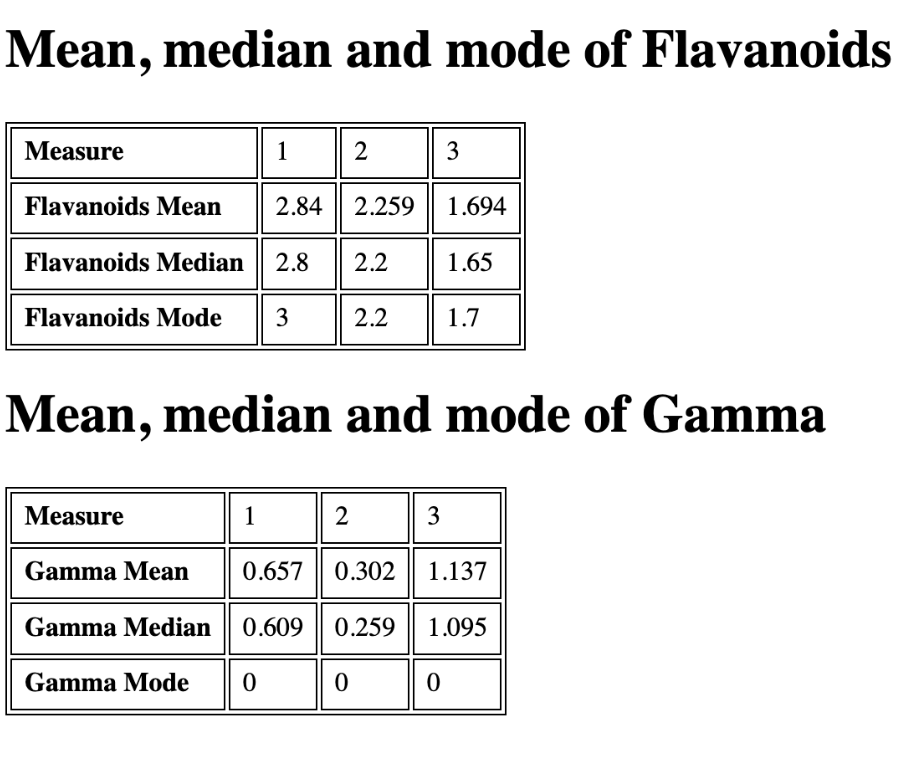
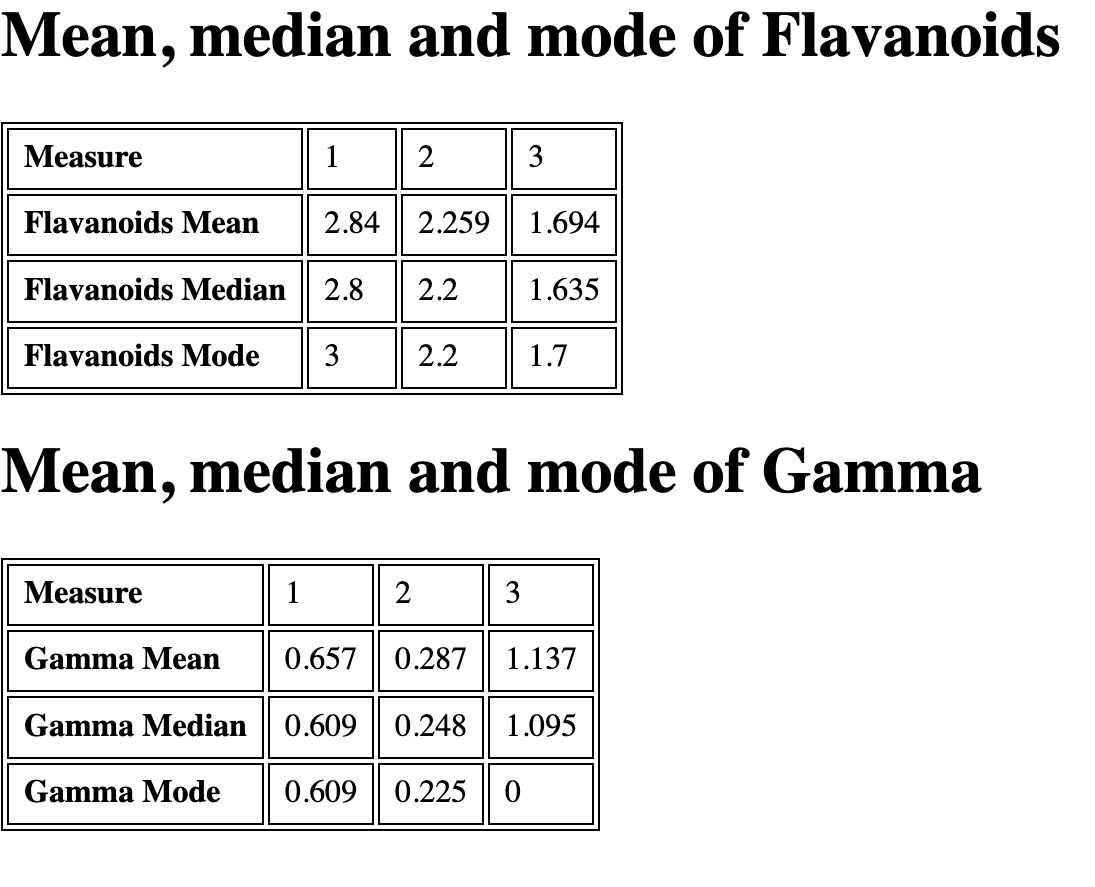
updated code

Changed region(s): [[0.0, 0.1211, 0.9231, 0.575], [0.0, 0.6053, 0.5538, 0.9684], [0.0, 0.0, 0.9846, 0.0908]]

diff --git a/src/utils/calculateMedianFromWine.ts b/src/utils/calculateMedianFromWine.ts
@@ -1,6 +1,7 @@
 import Wine from "../types/Wine";
 import checkApiStatus from "./checkAPIStatus";
 import mergeSort from "./mergeSort";
+
 /**
  * This function calculates the median of a wine's category, given the alcohol class and the wine data.
  *
@@ -8,6 +9,7 @@ import mergeSort from "./mergeSort";
  * @param category The name of the category to calculate the median of.
  * @param alcoholClass The alcohol class of the wines to consider.
  * @param isFetching A boolean flag that indicates whether the wine data is still being fetched from the API.
+ * @returns The calculated median.
  */
 export default function calculateMedianFromWine(
   wineData: Wine[] | undefined,
@@ -20,14 +22,27 @@ export default function calculateMedianFromWine(
    */
   if (checkApiStatus(wineData, isFetching) && Array.isArray(wineData)) {
     /**
-     * Filter the wine data to only include wines with the specified alcohol class and whose category is not a string.
+     * Filter the wine data to only include wines with the specified alcohol class.
      */
     const result = wineData
-      .filter(
-        (wine: Wine) =>
-          wine.Alcohol === alcoholClass && typeof wine[category] !== "string"
-      )
-      .map((wine: Wine) => wine[category] as number);
+      .filter((wine: any) => wine.Alcohol === alcoholClass)
+      .map((wine: any) => {
+        const categoryValue = wine[category];
+        if (category === "Flavanoids") {
+          if (categoryValue === "string")
+            return parseFloat(parseFloat(categoryValue).toFixed(3));
+          else return categoryValue;
+        } else {
+          return categoryValue;
+        }
+      });
+
+    /**
+     * Check if there's enough data to calculate the median.
+     */
+    if (result.length === 0) {
+      return undefined; // Return undefined if no data is available.
+    }
 
     /**
      * Sort the wine data in ascending order.
@@ -49,4 +64,6 @@ export default function calculateMedianFromWine(
 
     return parseFloat(median.toFixed(3));
   }
+
+  return undefined; // Return undefined if conditions are not met.
 }

diff --git a/src/utils/calculateGamma.ts b/src/utils/calculateGamma.ts
@@ -4,28 +4,18 @@
  * @param Ash The ash level of the wine.
  * @param Hue The hue level of the wine.
  * @param Magnesium The magnesium level of the wine.
+ * @returns The calculated gamma value or an empty string for invalid input.
  */
 export default function calculateGamma(
-  Ash: number,
-  Hue: number,
-  Magnesium: number
+  Ash: number | string,
+  Hue: number | string,
+  Magnesium: number | string
 ) {
-  /**
-   * Check if the input values are not strings.
-   */
-  if (
-    typeof Ash !== "string" &&
-    typeof Hue !== "string" &&
-    typeof Magnesium !== "string"
-  ) {
-    /**
-     * Calculate the gamma by multiplying the ash and hue levels and dividing by the magnesium level.
-     */
-    const res = parseFloat(((Ash * Hue) / Magnesium).toFixed(3));
-    return res;
-  } else return "";
+  let floatAsh = typeof Ash === "string" ? parseFloat(Ash) : Ash;
+  let floatHue = typeof Hue === "string" ? parseFloat(Hue) : Hue;
+  let floatMagnesium =
+    typeof Magnesium === "string" ? parseFloat(Magnesium) : Magnesium;
 
-  /**
-   * If any of the input values are strings, return an empty string.
-   */
+  const res = ((floatAsh * floatHue) / floatMagnesium).toFixed(3);
+  return parseFloat(res); // Convert the result back to a number.
 }

diff --git a/src/utils/calculateMeanFromWine.ts b/src/utils/calculateMeanFromWine.ts
@@ -29,6 +29,8 @@ export default function calculateMeanFromWine(
       )
       .map((wine: Wine) => wine[category] as number);
 
+    // console.log(category, alcoholClass, result);
+
     /**
      * Calculate the mean by adding all the numbers in the array and dividing by the number of numbers.
      */

diff --git a/src/types/Wine.ts b/src/types/Wine.ts
@@ -24,7 +24,7 @@ export default interface Wine {
   "Alcalinity of ash": number;
   Magnesium: number;
   "Total phenols": number;
-  Flavanoids: number;
+  Flavanoids: number | string;
   "Nonflavanoid phenols": number;
   Proanthocyanins: number;
   "Color intensity": number;

diff --git a/src/components/Gamma.tsx b/src/components/Gamma.tsx
@@ -22,6 +22,10 @@ function Gamma() {
     setWineData(newWineData);
   }
 
+  wineData?.map((item: any) => {
+    if(item.gamma===undefined) console.log(item);
+  });
+
   useEffect(() => {
     getData();
   }, []);
